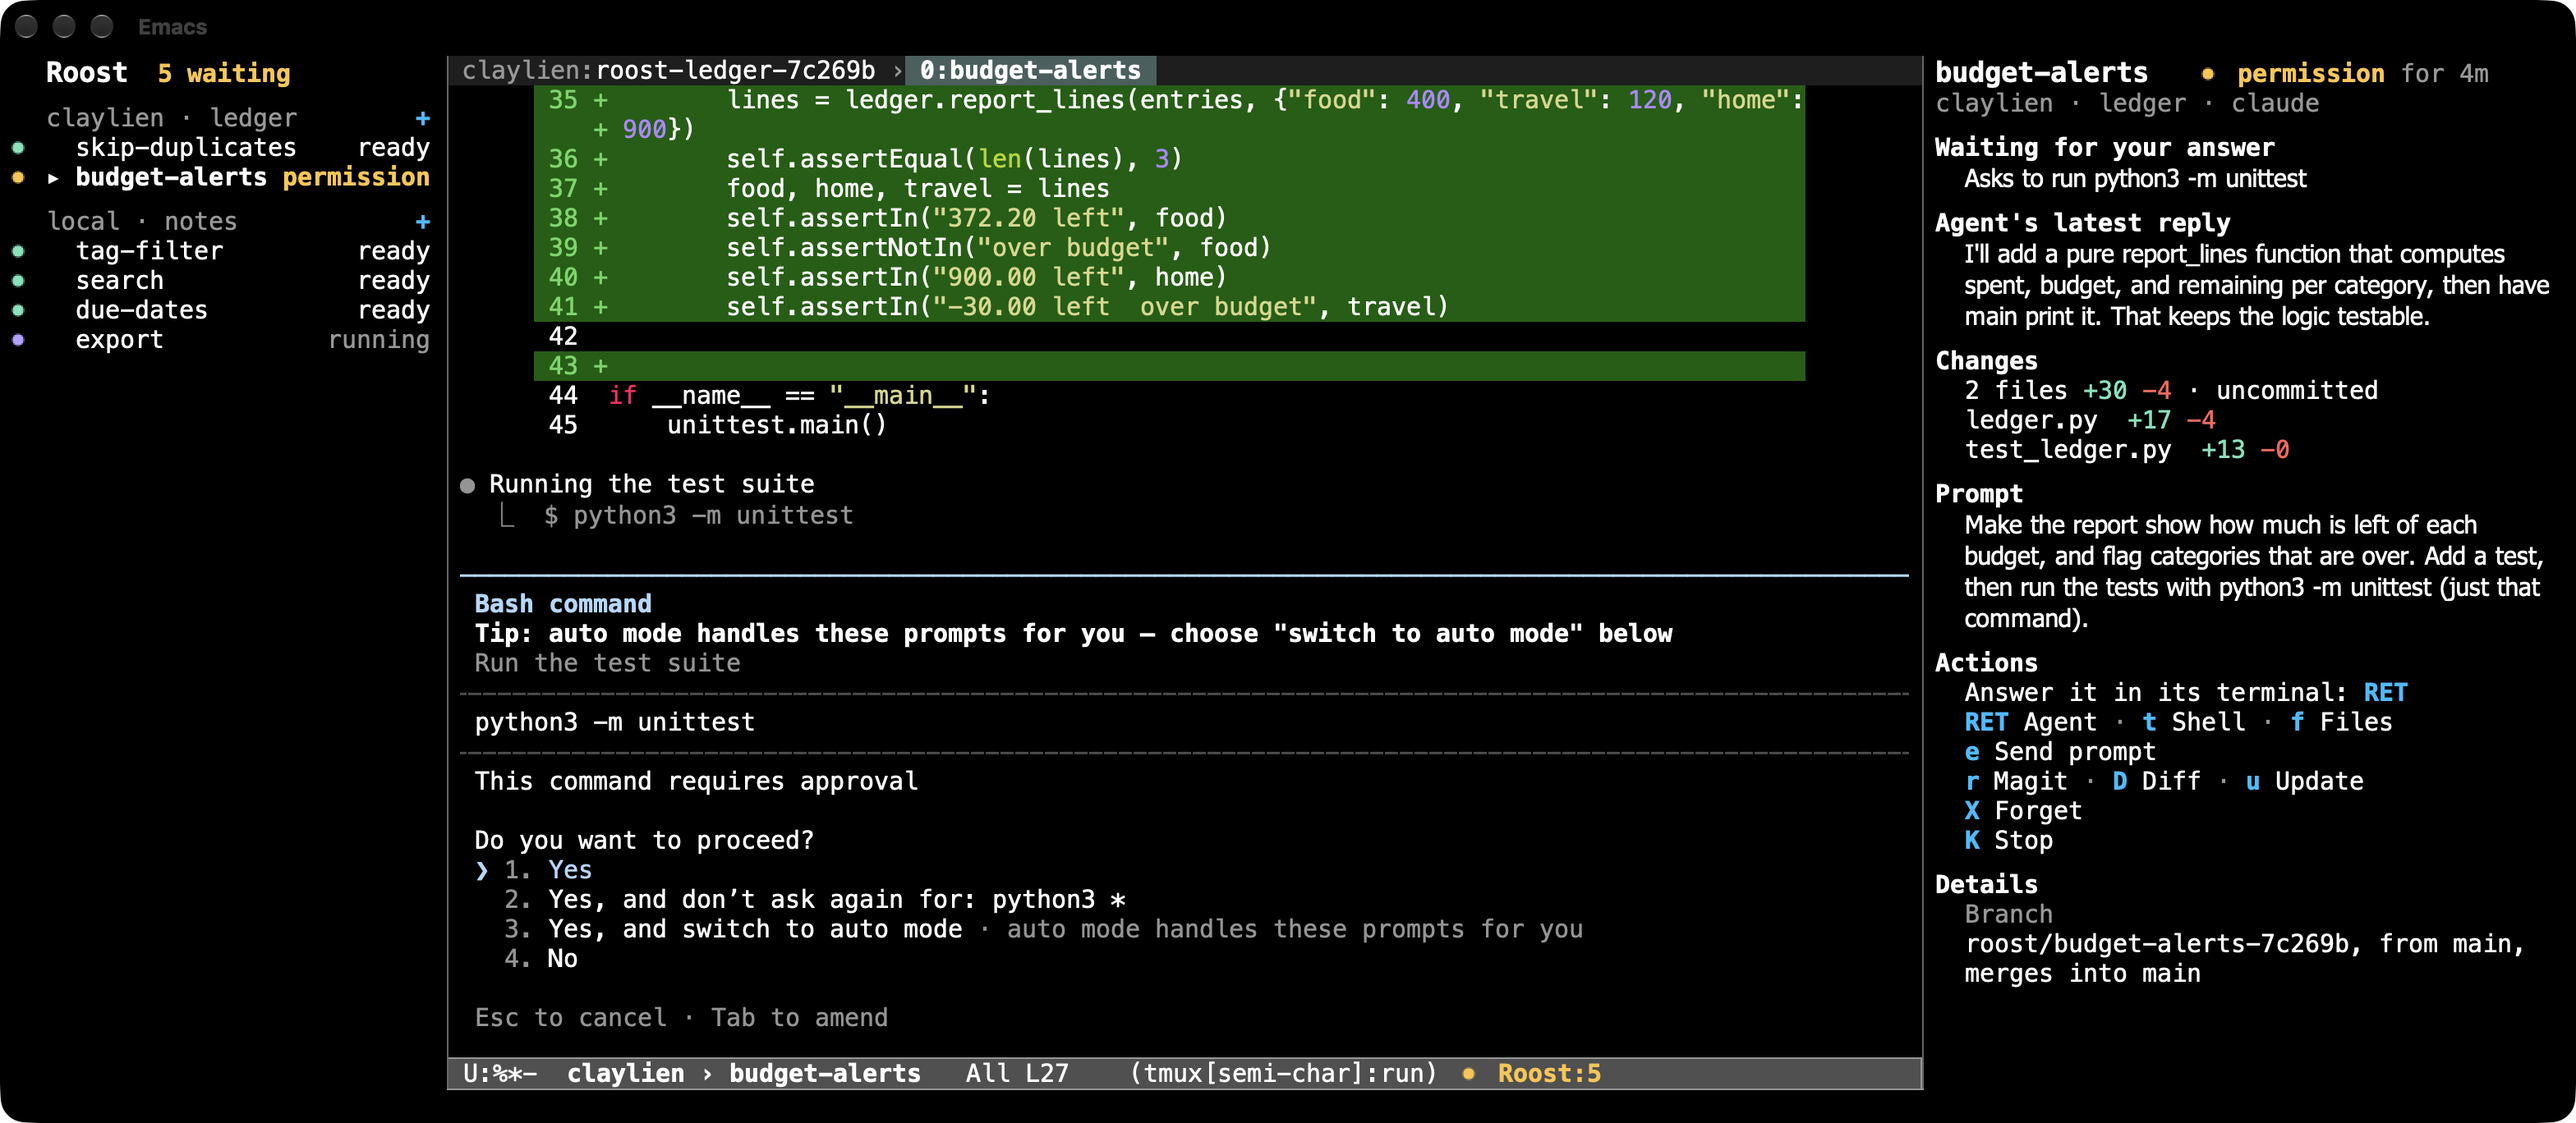
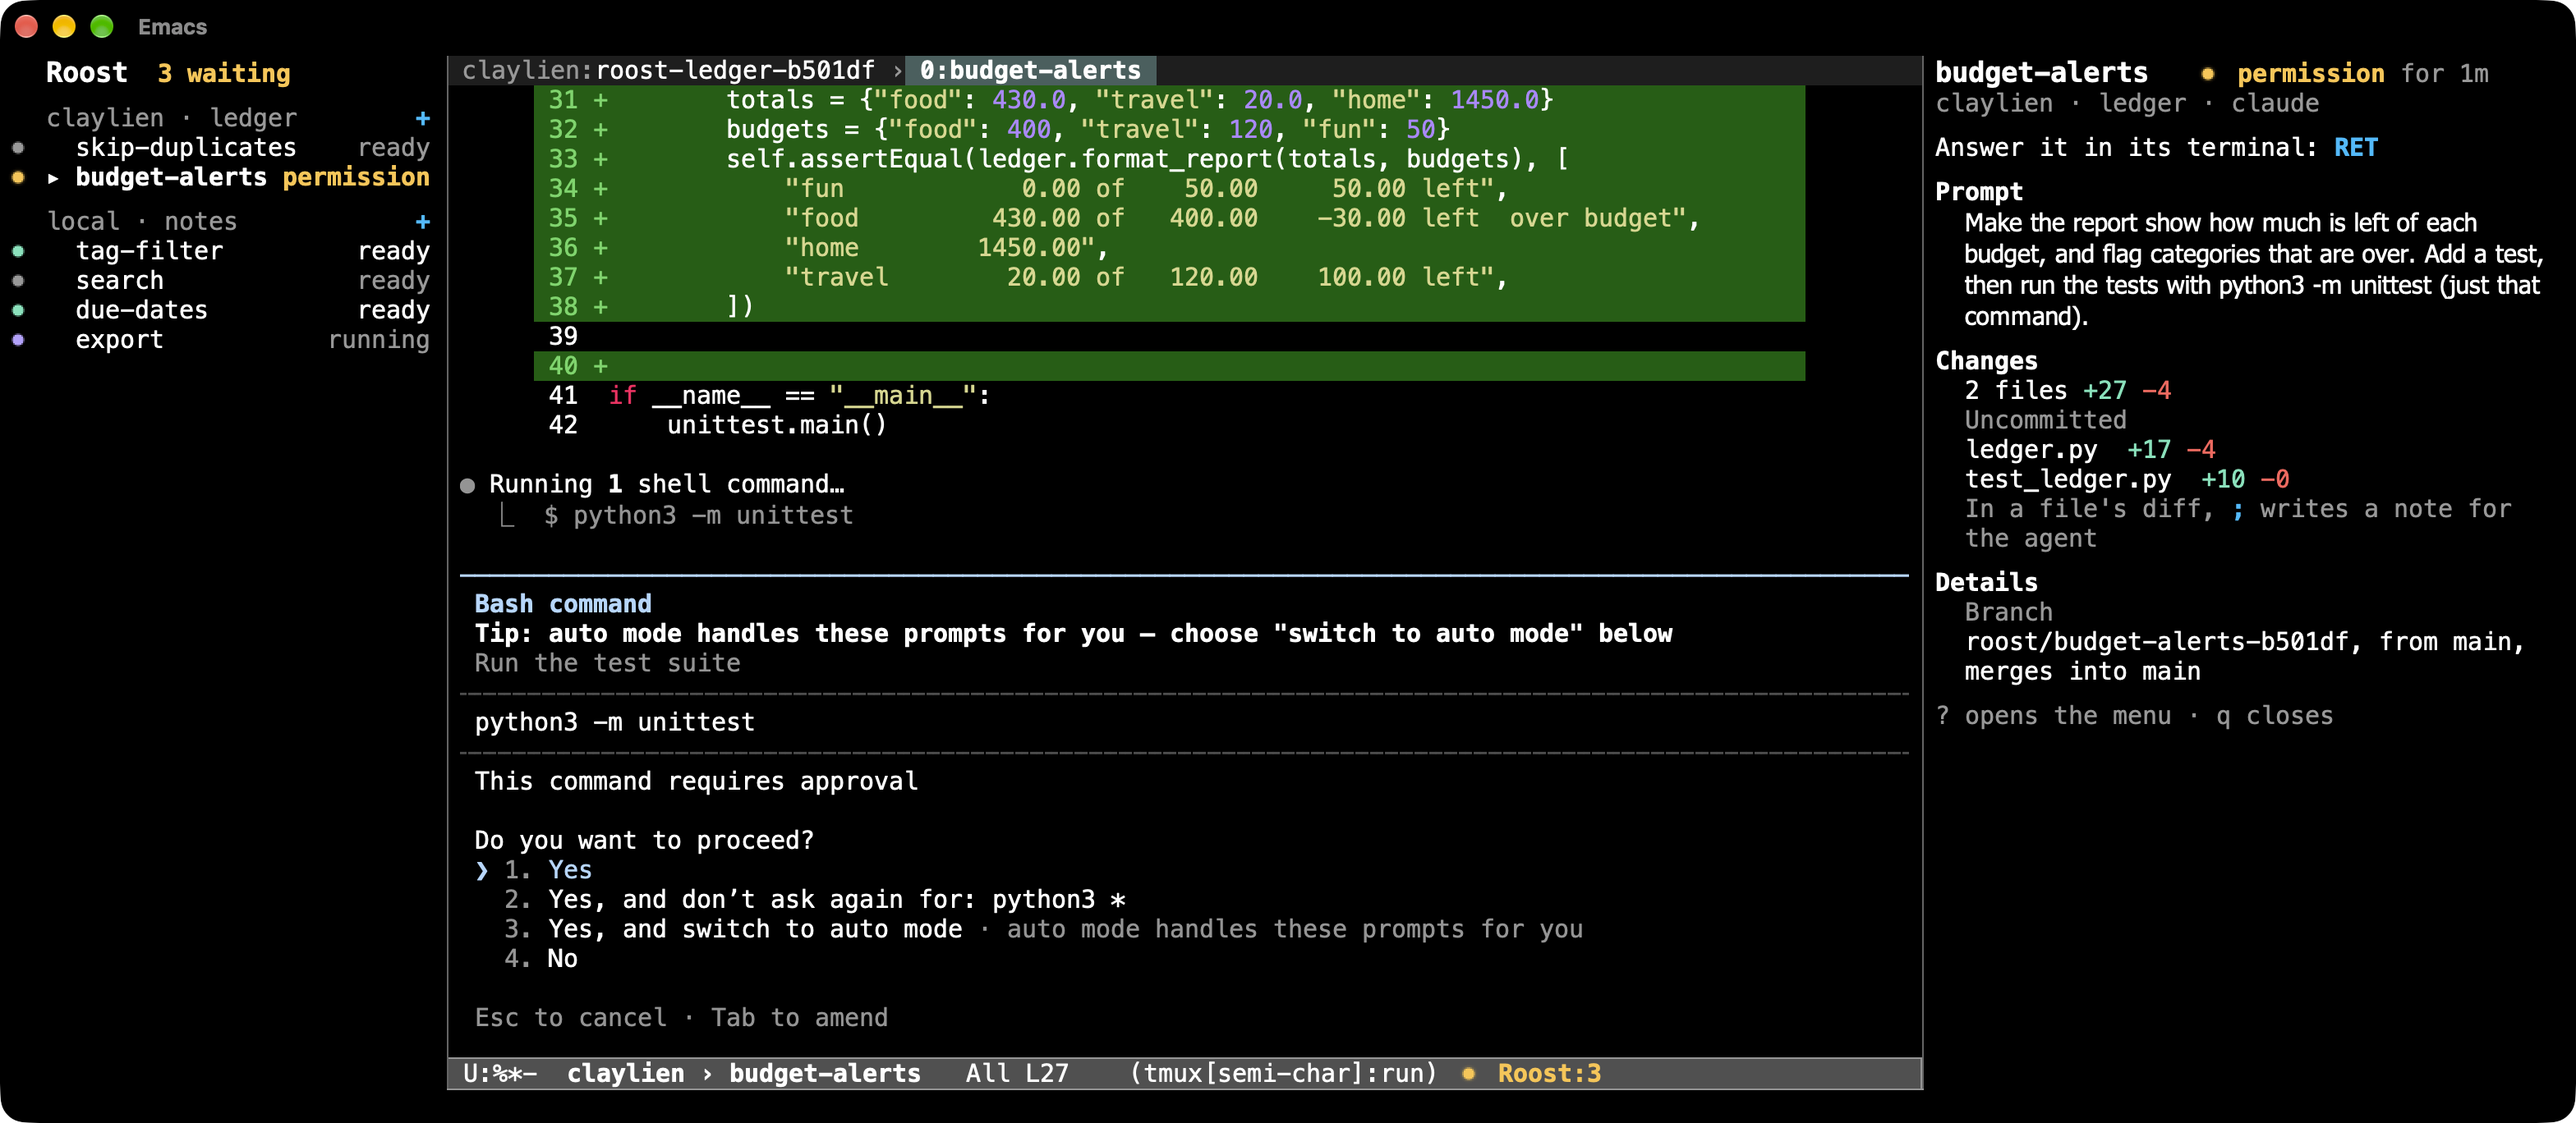
Retake the README's hero image with the task panel that leads with the next step

diff --git a/docs/demo.md b/docs/demo.md
@@ -17,9 +17,9 @@ shows `~/.local/share/roost` and your tmux-control socket.
 
 | Image | What it shows |
 | --- | --- |
-| `roost-hero.png` | Five agents on two machines: the sidebar, the terminal of `budget-alerts` on `claylien` asking to run `python3 -m unittest`, and that task's panel |
+| `roost-hero.png` | Six agents on two machines: the sidebar, the terminal of `budget-alerts` on `claylien` asking to run `python3 -m unittest`, and that task's panel |
 | `roost-new-task.png` | A draft opened on an Org heading in `plans.org`: the heading and its notes are the prompt, with the derived name |
-| `roost-dashboard.png` | The dashboard a little later, with a sixth task, `export`, just started |
+| `roost-dashboard.png` | The dashboard of the same six tasks, with `export` just started |
 | `roost-review.png` | Magit on the `skip-duplicates` task (`r`), with a review note under the agent's change and the box for another, opened from the `+` beside a line |
 
 ## Try the same workflow
@@ -45,4 +45,7 @@ The disposable projects, tasks and capture state were removed afterwards.
 `ledger` project was gone, its `skip-duplicates` change, as the agent had
 made it and as the first capture shows, was written again into a local
 repository, for a task record of Roost's own whose reply begins as the
-agent's did, in the same configuration.
+agent's did, in the same configuration. `roost-hero.png` was retaken on
+2026-10-12 for the task panel that leads with the next step and the prompt:
+the two projects were made again as before, and six new sessions were given
+the same prompts, in the same configuration.

diff --git a/README.md b/README.md
@@ -10,11 +10,11 @@ worktree, a branch and a terminal, here or on any SSH host. It tells you which
 agents need you, and you review and merge their work with Magit. If you've
 used Orca or Conductor, it's that idea, inside the Emacs you already use.
 
-![Emacs with three columns: Roost's sidebar listing six agents on two machines, one asking permission; that agent's Claude Code terminal on the SSH host claylien, asking to run its tests; and the task's panel with what it asks, its latest reply, what it changed and what to do next](docs/images/roost-hero.png)
+![Emacs with three columns: Roost's sidebar listing six agents on two machines, one asking permission; that agent's Claude Code terminal on the SSH host claylien, asking to run its tests; and the task's panel, which says to answer it in its terminal and shows the prompt it was given and the files it has changed](docs/images/roost-hero.png)
 
-*Five Claude Code agents on two machines. The one on `claylien` wants to run
+*Six Claude Code agents on two machines. The one on `claylien` wants to run
 its tests: its own terminal in the middle, every task at the left, and at the
-right what it changed and what to do next.*
+right what to do next, what you asked it and what it changed.*
 
 Other Emacs packages run coding agents too, among them
 [agent-shell](https://github.com/xenodium/agent-shell),
